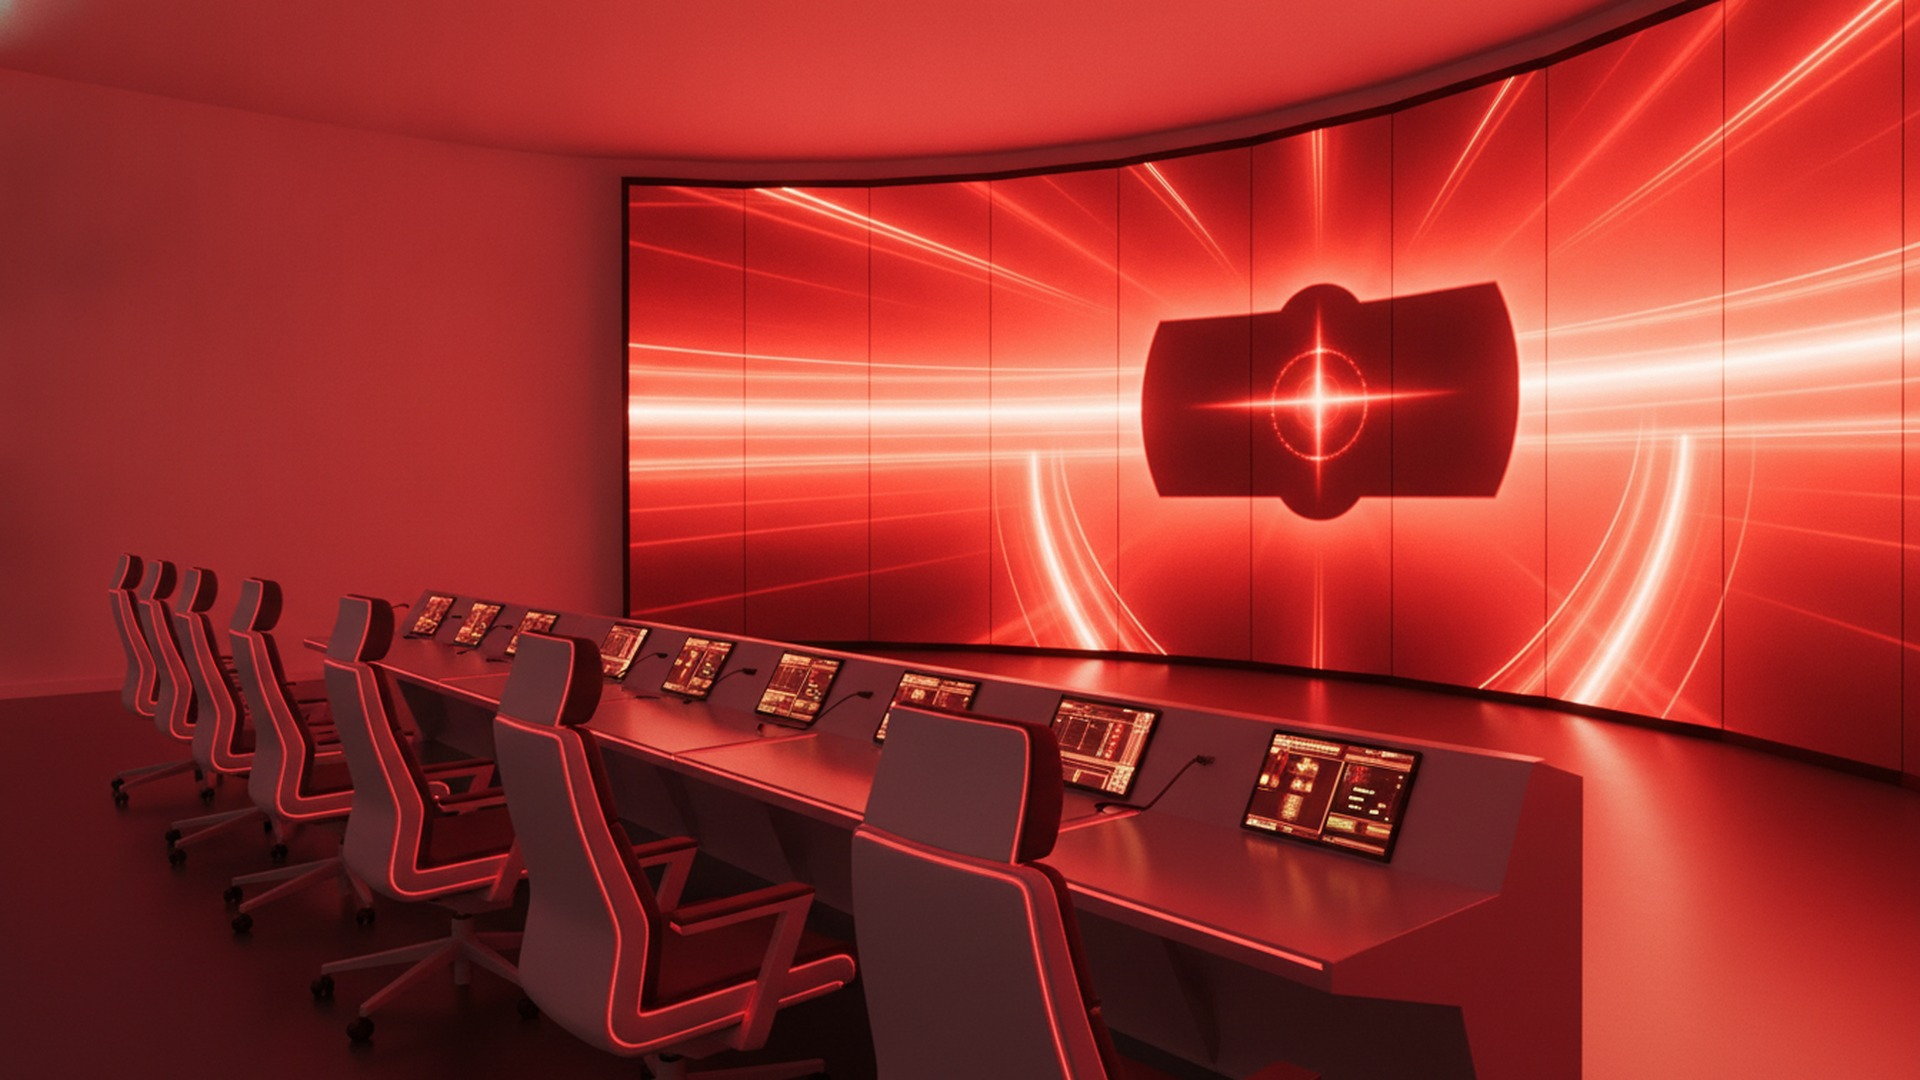
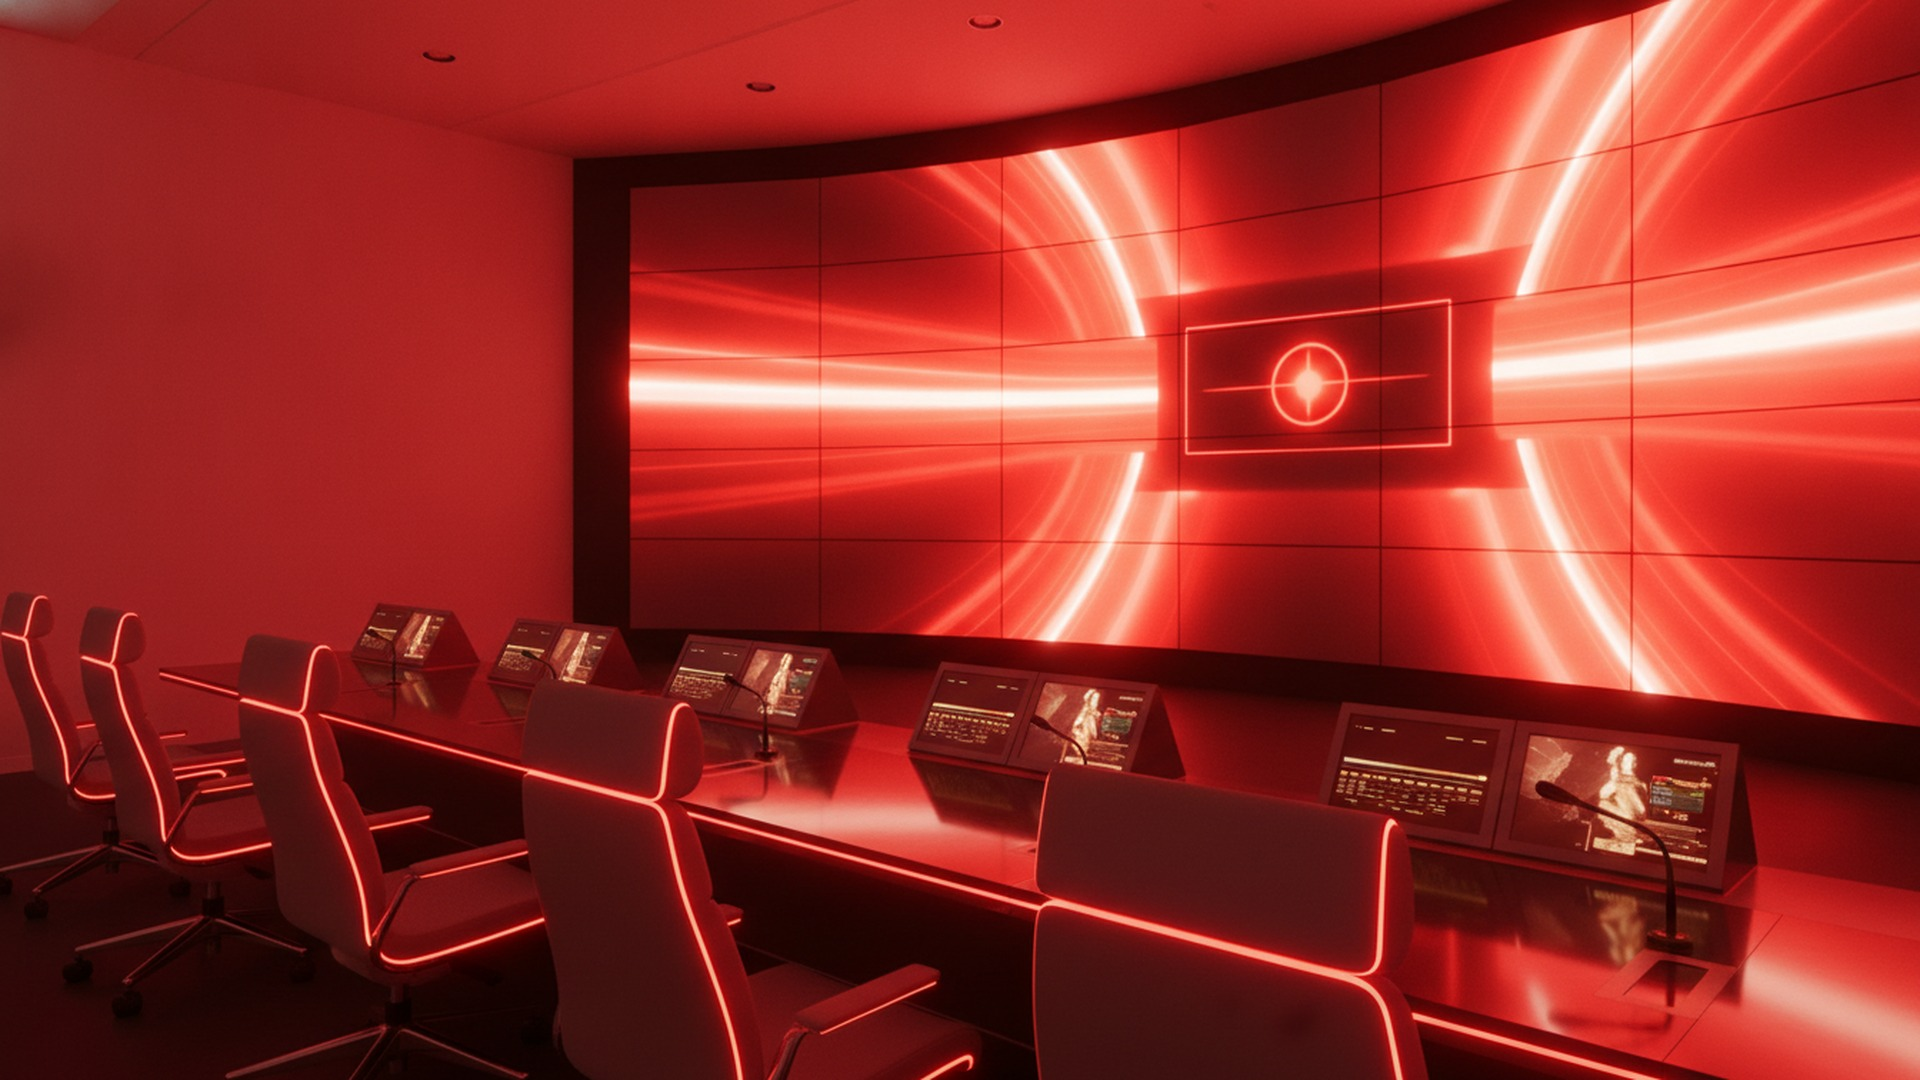
014-oreshnik-belarus-warning-time: thumbnail review

diff --git a/episodes/014-oreshnik-belarus-warning-time/thumb_review.md b/episodes/014-oreshnik-belarus-warning-time/thumb_review.md
@@ -1,0 +1,28 @@
+PASS
+
+Round 1 FAIL (A: flat blue-violet left third, glow 14.1% under the 18% A minimum). Fixed in round 2: image_prompt rewritten so the sky is a full-width deep-blue-to-orange gradient, plume fills the right two thirds, bottom-right left as smoke. Regenerated; thumbcheck all OK (A bright 134, glow 30.9%, dark 14.0%).
+
+## Variant A (launch, fire-night), "8 MINUTES / NO NOTICE", no tag: 17/20
+1. Phone read 2: launcher and plume named at 250 px, both lines read at once.
+2. Subject 2: diagonal missile with huge orange plume is the brightest thing, glow 30.9%; bottom-right is smoke.
+3. Words 2: four words, no tag.
+4. Pairing 2: title.py shows no duplicate; title says Oreshnik/Germany/Belarus, thumb says time.
+5. Curiosity 1: "no notice" raises the question, but the stake is soft; a tag would help.
+6. Truth 2: eight minutes is in script.md (launch eight minutes before the flash); weapon and Belarus forest launch match.
+7. Distinct 2: launch vs map vs control-room, three palettes.
+8. Competitor 1: close to the 254k "One warning shot" launcher thumb, but brighter (134 vs 103) and more fire; competitor has a stronger red tag.
+9. Light 2: brightness 134, orange fire on deep blue.
+10. Fresh 1: 009 A also showed a launcher at sunset; this is a vertical-fire launch against forest, different palette and side-on view, but still the same subject class.
+Total 17.
+
+## Variant B (map): 11/20
+Pale cream map, glow 11%, no named subject; weakest against competitors. Item 8 and 2 score 0. Ranked second only for concept spread.
+
+## Variant C (control-room): 15/20
+Bright red wall screen, glow 37.4%, clear tag "NUKE OR NOT" (3 words). Close second; "NO WAY TO TELL" repeats the question in the tag.
+
+Rank: A, C, B. A is id "a", no swap needed.
+
+Fixes (optional, for the Test and compare set):
+1. B: replace the cream map with a bright fireball or a glowing launch arc over the region, or add a red tag such as "BERLIN IS NEXT" only if not restating the title.
+2. A: add a red stake tag of at most three words (for example "FLASH OVER GERMANY") if CTR is below target.

diff --git a/episodes/014-oreshnik-belarus-warning-time/decisions.md b/episodes/014-oreshnik-belarus-warning-time/decisions.md
@@ -6,3 +6,6 @@ Top titles (title.py, with thumb "8 MINUTES NO NOTICE"; 66 to 70 of 100, only fl
 2. What If Russia Fired an Oreshnik Nuke at Germany? (49, 70)
 3. What If Belarus Nuked Germany With an Oreshnik? (47, 70)
 Thumbs: A launch/fire-night (previous A: witness/dawn-gold, aftermath/fire-blue), B map (engine), C control-room/red-alert. Gemini worked.
+
+## Thumbnail review (2026-11-21)
+Round 1 FAIL: A flat blue left third, glow 14.1%. Round 2: A prompt rewritten (full-width sky gradient, larger plume), glow 30.9%, PASS, A 17/20. B (map) is weak (11/20) but A and C carry the test.
